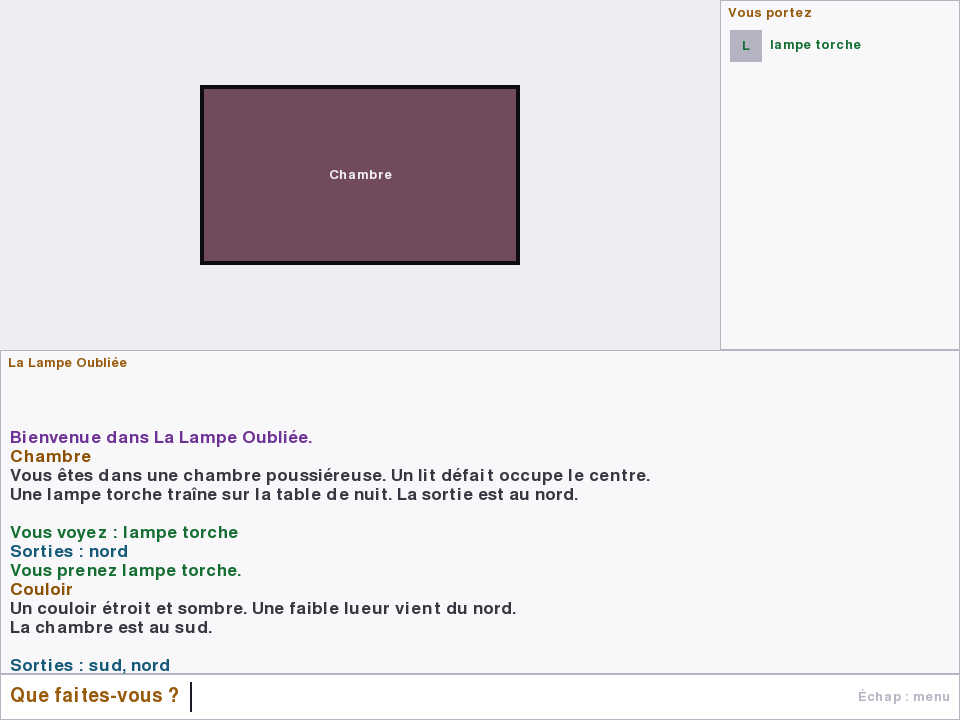
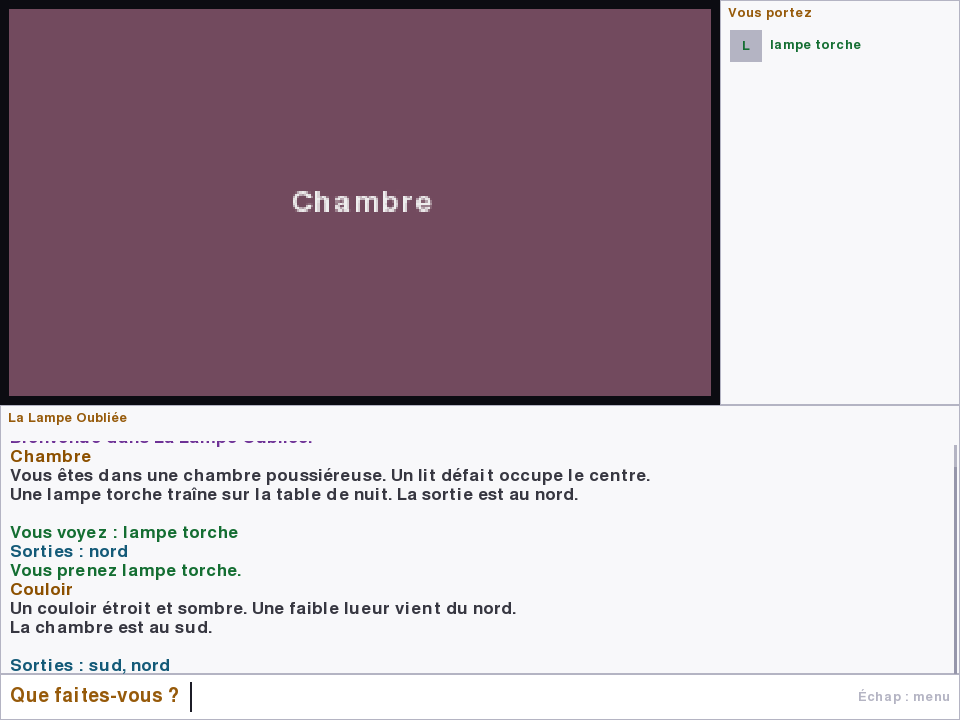
feat(ui): make room art fill the whole art area
- ArtView now scales with a fractional factor to fill the available rect
  while keeping the aspect ratio, upscaling low-resolution images
- the art area adopts the art aspect ratio so the image fills it with no
  margins; the sidebar absorbs the leftover width
- tests: fit_size and layout filling; refreshed pygame screenshots

diff --git a/pyventure/ui/pygame/art_view.py b/pyventure/ui/pygame/art_view.py
@@ -79,15 +79,13 @@ class ArtView:
     def scaled(
         self, hint: ArtHint | None, state: GameState, rect: pygame.Rect
     ) -> tuple[pygame.Surface, tuple[int, int]]:
-        """Renvoie la surface agrandie et sa position centrée dans ``rect``."""
+        """Renvoie la surface agrandie au maximum de ``rect`` et sa position centrée."""
         surface = self.surface_for(hint, state)
-        scale = self.integer_scale(surface.get_size(), rect.size)
-        scaled = pygame.transform.scale(
-            surface, (surface.get_width() * scale, surface.get_height() * scale)
-        )
+        target = self.fit_size(surface.get_size(), rect.size)
+        scaled = pygame.transform.scale(surface, target)
         position = (
-            rect.x + (rect.width - scaled.get_width()) // 2,
-            rect.y + (rect.height - scaled.get_height()) // 2,
+            rect.x + (rect.width - target[0]) // 2,
+            rect.y + (rect.height - target[1]) // 2,
         )
         return scaled, position
 
@@ -102,10 +100,16 @@ class ArtView:
         target.blit(scaled, position)
 
     @staticmethod
-    def integer_scale(source: tuple[int, int], available: tuple[int, int]) -> int:
-        width_scale = available[0] // max(1, source[0])
-        height_scale = available[1] // max(1, source[1])
-        return max(1, min(width_scale, height_scale))
+    def fit_size(source: tuple[int, int], available: tuple[int, int]) -> tuple[int, int]:
+        """Taille maximale qui remplit ``available`` en gardant les proportions.
+
+        L'échelle est fractionnaire : une image basse résolution est agrandie
+        jusqu'à occuper toute la zone disponible.
+        """
+        if source[0] <= 0 or source[1] <= 0 or available[0] <= 0 or available[1] <= 0:
+            return source
+        scale = min(available[0] / source[0], available[1] / source[1])
+        return max(1, round(source[0] * scale)), max(1, round(source[1] * scale))
 
     def object_surface(self, object_id: str, state: GameState) -> pygame.Surface | None:
         path = self.resolver.object_art(object_id, state)

diff --git a/tests/ui/test_pygame.py b/tests/ui/test_pygame.py
@@ -64,6 +64,41 @@ def test_art_placeholder_size(project: GameProject) -> None:
     pygame.quit()
 
 
+def test_fit_size_fills_available_area() -> None:
+    assert ArtView.fit_size((320, 180), (800, 450)) == (800, 450)
+    assert ArtView.fit_size((320, 180), (825, 442)) == (786, 442)
+    assert ArtView.fit_size((320, 180), (100, 100)) == (100, 56)
+    assert ArtView.fit_size((0, 0), (10, 10)) == (0, 0)
+
+
+def test_fit_size_upscales_low_resolution() -> None:
+    width, height = ArtView.fit_size((32, 32), (640, 360))
+    assert width == 360
+    assert height == 360
+
+
+def test_layout_art_matches_aspect(project: GameProject, tmp_path) -> None:
+    app = GameApp(project, save_path=tmp_path / "save.json", size=(960, 720))
+    layout = app.layout()
+    assert layout.art.height > 0
+    ratio = 320 / 180
+    assert abs(layout.art.width / layout.art.height - ratio) < 0.05
+
+    scaled, _position = app.art_view.scaled(app.art_hint, app.state, layout.art)
+    assert abs(scaled.get_width() - layout.art.width) <= 2
+    assert abs(scaled.get_height() - layout.art.height) <= 2
+    pygame.quit()
+
+
+def test_layout_art_fills_on_small_window(project: GameProject, tmp_path) -> None:
+    app = GameApp(project, save_path=tmp_path / "save.json", size=(640, 480))
+    layout = app.layout()
+    scaled, _position = app.art_view.scaled(app.art_hint, app.state, layout.art)
+    assert scaled.get_width() == layout.art.width
+    assert scaled.get_height() == layout.art.height
+    pygame.quit()
+
+
 def test_command_input_history_and_completion() -> None:
     command = CommandInput(Theme(), Fonts())
     command.text = "regarder"

diff --git a/pyventure/ui/pygame/game.py b/pyventure/ui/pygame/game.py
@@ -320,11 +320,19 @@ class GameApp:
     def layout(self) -> Layout:
         width, height = self.screen.get_size()
         sidebar_width = min(280, max(180, width // 4))
-        top_height = int((height - INPUT_HEIGHT) * 0.52)
+        available_height = height - INPUT_HEIGHT
+        art_width, art_height = self.art_view.base_size
+        ratio = art_width / art_height if art_height else 16 / 9
+        # La zone d'art adopte le rapport de l'image pour qu'elle la remplisse
+        # entièrement (aucune marge), en gardant de la place pour le transcript.
+        max_art_height = max(80, available_height - 140)
+        top_height = min(max_art_height, int((width - sidebar_width) / ratio))
+        shown_width = min(width - sidebar_width, int(top_height * ratio))
+        left = max(0, (width - sidebar_width - shown_width) // 2)
         return Layout(
-            art=pygame.Rect(0, 0, width - sidebar_width, top_height),
+            art=pygame.Rect(left, 0, shown_width, top_height),
             sidebar=pygame.Rect(width - sidebar_width, 0, sidebar_width, top_height),
-            transcript=pygame.Rect(0, top_height, width, height - INPUT_HEIGHT - top_height),
+            transcript=pygame.Rect(0, top_height, width, available_height - top_height),
             command=pygame.Rect(0, height - INPUT_HEIGHT, width, INPUT_HEIGHT),
         )
 

diff --git a/tests/editor/test_assets.py b/tests/editor/test_assets.py
@@ -32,12 +32,12 @@ def test_expected_sizes(example_path: Path) -> None:
     assert assets.expected_size(document.data, game_object) == (32, 32)
 
 
-def test_statuses_report_missing(example_path: Path) -> None:
+def test_statuses_report_missing(example_path: Path, tmp_path: Path) -> None:
     document = _document(example_path)
-    statuses = assets.statuses(document.root, document.data)
+    statuses = assets.statuses(tmp_path, document.data)
     assert statuses
     assert all(not status.exists for status in statuses)
-    assert assets.missing(document.root, document.data)
+    assert assets.missing(tmp_path, document.data)
 
 
 def test_make_placeholder_then_detected(tmp_path: Path, example_path: Path) -> None:

diff --git a/CHANGELOG.md b/CHANGELOG.md
@@ -40,12 +40,12 @@ et le projet suit le [versionnage sémantique](https://semver.org/lang/fr/).
 ### Ajouté — Phase 2 (fenêtre pygame)
 
 - Fenêtre graphique `pyventure/ui/pygame/` : art pixel art en haut, transcript défilant au centre, inventaire à droite, saisie en bas.
-- `ArtView` : agrandissement entier au plus proche voisin, variantes de pièce, cache de surfaces et placeholders déterministes nommés d'après la pièce.
-- Transcript avec wrapping, styles sémantiques, défilement (molette, PageUp/PageDown) et barre de défilement.
+- `ArtView` : agrandissement entier au plus proche voisin, variantes de pièce, cache de surfaces et placeholders déterministes nommés d'après la pièce.- Transcript avec wrapping, styles sémantiques, défilement (molette, PageUp/PageDown) et barre de défilement.
 - Saisie clavier : caractères, retour arrière, historique (`↑`/`↓`), complétion (`Tab`).
 - Panneau d'inventaire avec icônes d'objets (placeholder lettre si l'asset manque).
 - Menu en jeu (`Échap`) : nouvelle partie, sauvegarder, charger, langue, thème, taille du texte, aide, quitter.
 - Thème sombre/clair et trois tailles de police, applicables à chaud.
+- Les illustrations de pièce **remplissent toute la zone d'art** (mise à l'échelle fractionnaire, agrandissement si la résolution est faible) ; la zone adopte le rapport de l'image pour éviter les marges.
 - Transition en fondu entre deux pièces.
 - Redimensionnement de fenêtre et letterboxing, autosave et reprise partagés avec le terminal.
 - `python3 -m pyventure play --gui` et option `--size LxH`.

diff --git a/README.md b/README.md
@@ -45,7 +45,7 @@ La fenêtre graphique nécessite pygame : `pip install -e ".[gui]"`. Le mode ter
 
 ![Thème clair et texte agrandi.](docs/images/pygame-light.png)
 
-Dans la fenêtre : `Échap` ouvre le menu, `Tab` complète, `↑`/`↓` parcourt l'historique, la molette et `PageUp`/`PageDown` font défiler le texte.
+Dans la fenêtre : `Échap` ouvre le menu, `Tab` complète, `↑`/`↓` parcourt l'historique, la molette et `PageUp`/`PageDown` font défiler le texte. L'illustration de la pièce remplit toute la zone d'art (mise à l'échelle automatique, y compris en agrandissant une image basse résolution).
 
 Commandes : `regarder`, `prendre <objet>`, `lâcher <objet>`, `utiliser <objet>`, `examiner <objet>`, `inventaire`, `score`, directions (`n/s/e/w/u/d`, `nord`…), `sauvegarder`, `charger`, `annuler`, `langue en`, `quitter`. En anglais : `look`, `take`, `drop`, `use`, `examine`, `inventory`, `score`, `north`…
 

diff --git a/docs/01-architecture.md b/docs/01-architecture.md
@@ -233,7 +233,7 @@ Format JSON versionné :
 ## 9. Graphismes avec pygame
 
 - `ArtResolver` choisit l'image : variante de pièce > pièce > placeholder.
-- Résolution de base **320×180**, scale entier, filtre nearest.
+- Résolution de base **320×180** ; l'image est agrandie pour **remplir toute la zone d'art** (échelle fractionnaire, filtre nearest), y compris si la source est de basse résolution.
 - Chargement via `pygame.image.load`, conversion `convert_alpha()`, cache côté UI uniquement.
 - Agrandissement via `pygame.transform.scale` (pas `smoothscale`).
 - Placeholder déterministe généré avec Pillow si l'asset manque.
